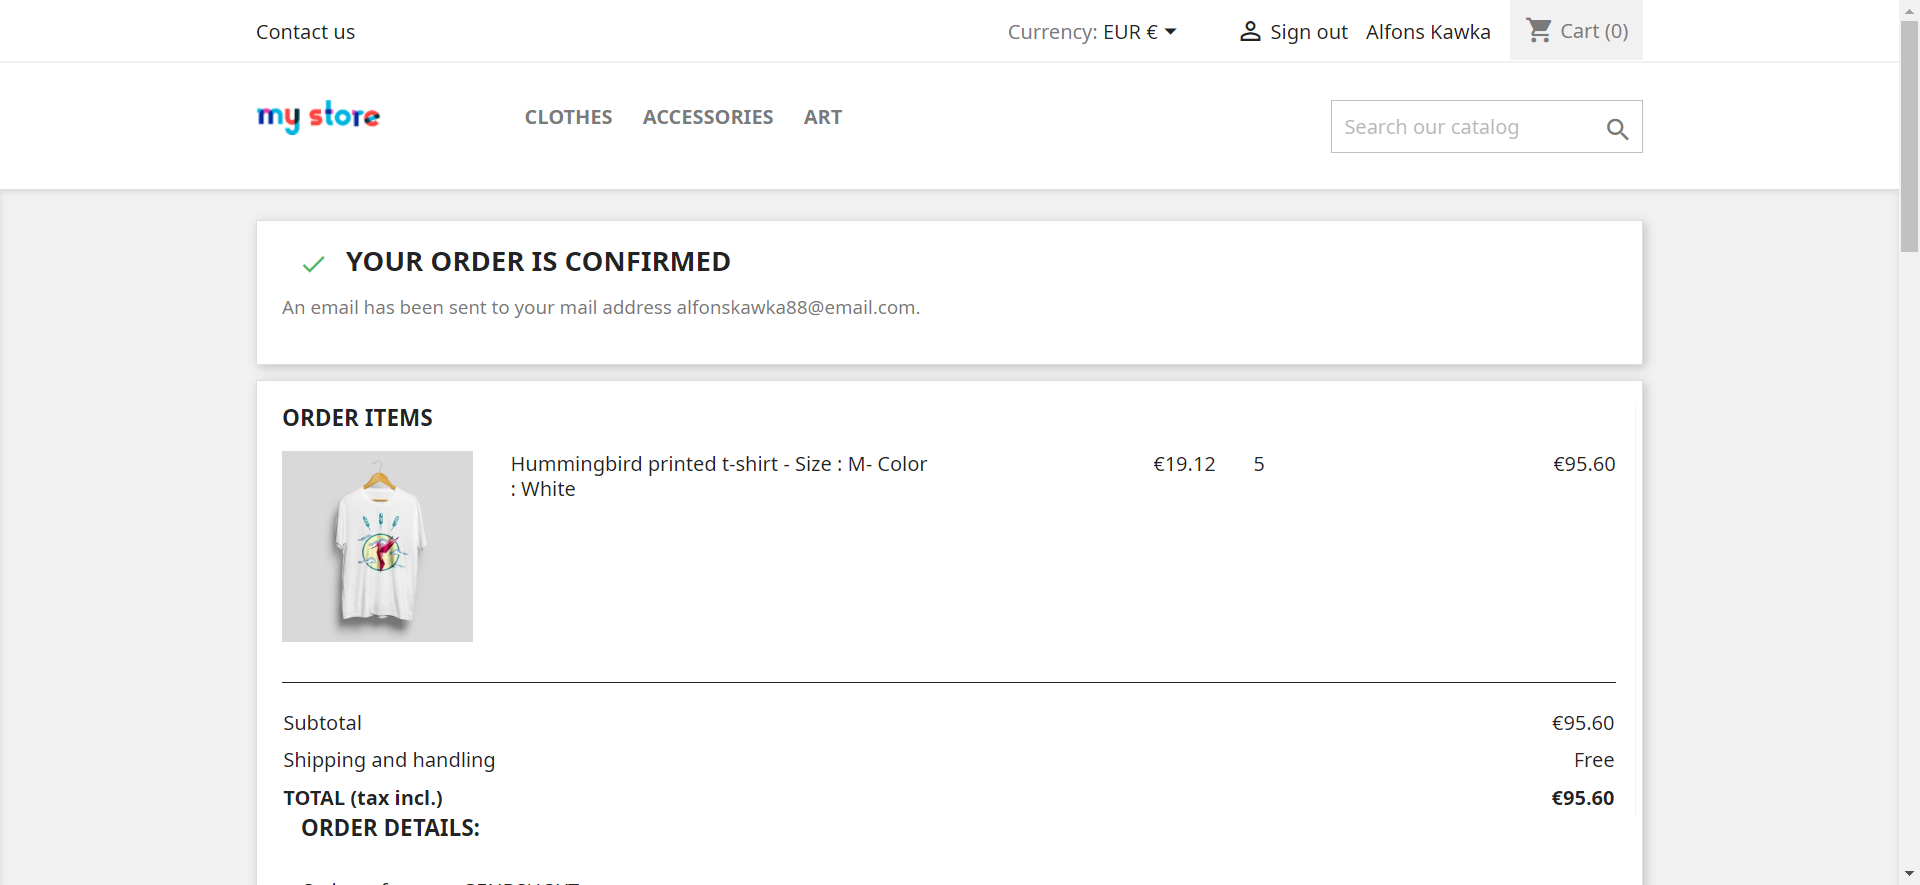
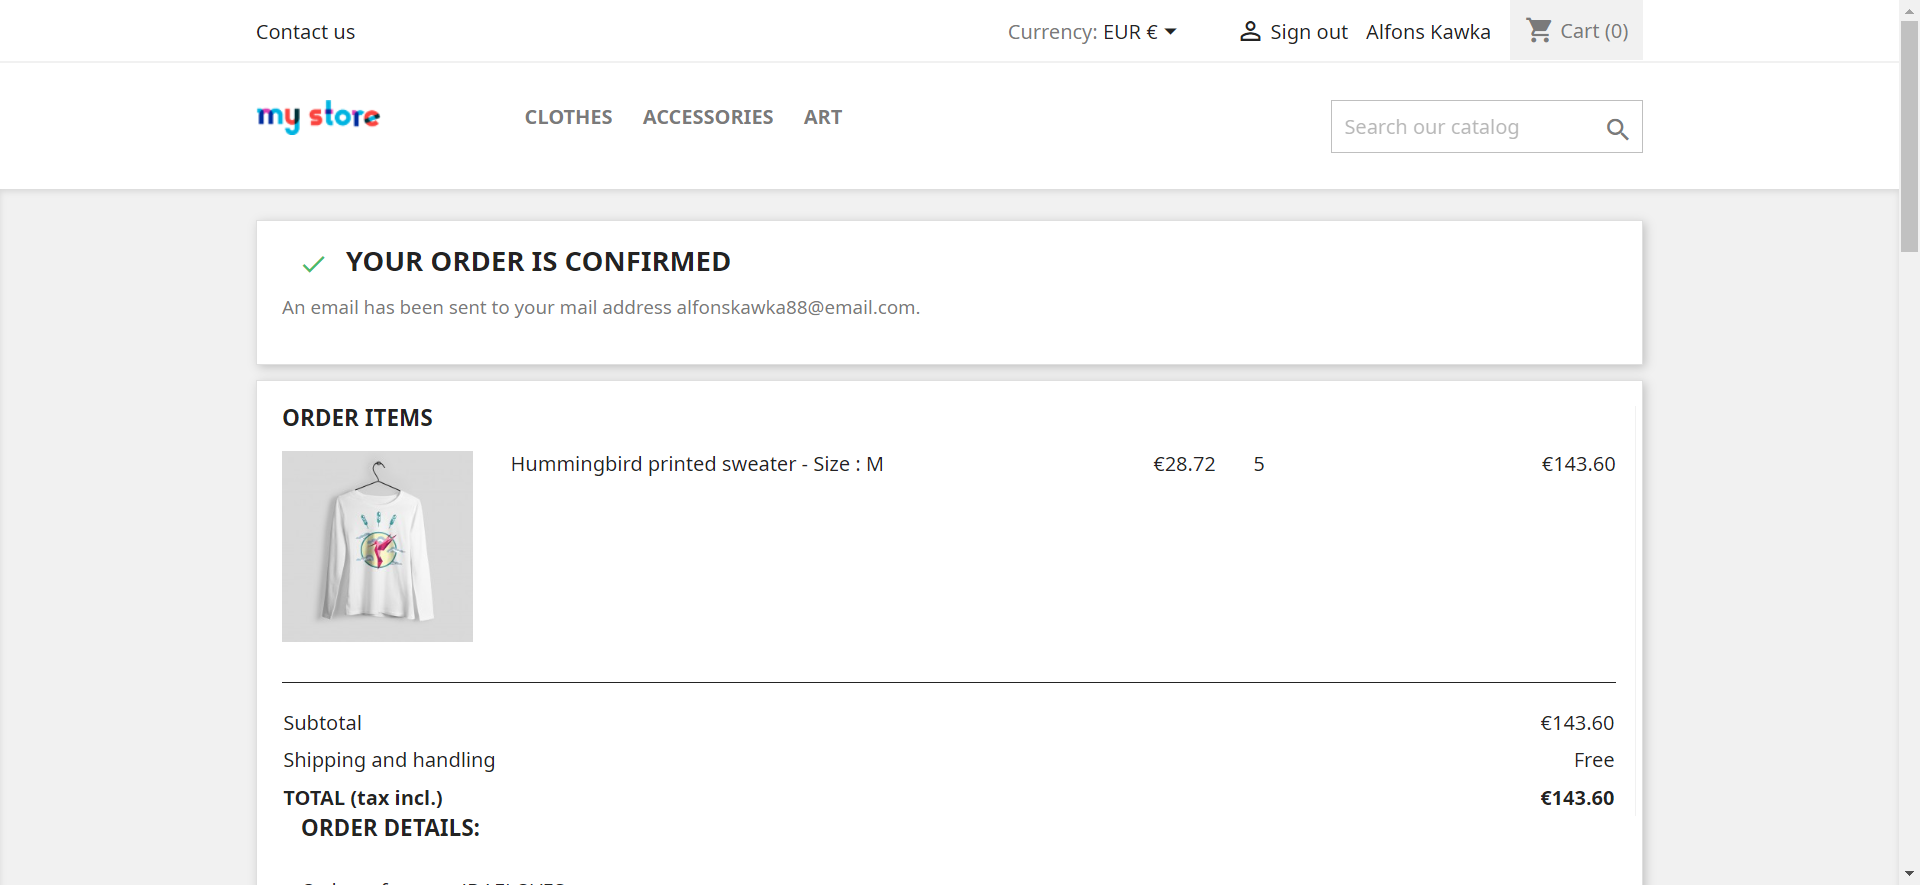
Zadania done

diff --git a/src/test/java/bdd/zadania/Zadanie1Steps.java b/src/test/java/bdd/zadania/Zadanie1Steps.java
@@ -12,6 +12,8 @@ import org.openqa.selenium.WebDriver;
 import org.openqa.selenium.WebElement;
 import org.openqa.selenium.chrome.ChromeDriver;
 
+import java.util.List;
+
 
 public class Zadanie1Steps {
 
@@ -59,24 +61,37 @@ public class Zadanie1Steps {
         createNewAddressPage.createAddress();
     }
 
-    @Then("new address is added")
-    public void newAddressIsAdded() {
+    @Then("new address is added and deleted")
+    public void newAddressIsAddedAndDeleted() {
         WebElement newAddressIsAdded = driver.findElement(By.xpath("//*[@id=\"notifications\"]/div/article/ul/li"));
         System.out.println(newAddressIsAdded.getText());
         Assertions.assertEquals(newAddressIsAdded.getText(), "Address successfully added!");
 
-        WebElement firstAlias = driver.findElement(By.cssSelector("#address-24480 > div.address-body > h4"));
-        System.out.println(firstAlias.getText());
-        Assertions.assertEquals(firstAlias.getText(), "alfons2");
+        List<WebElement> webElementList = driver.findElements(By.cssSelector("article[id^='address-']")); //napisane na podstawie Attribute Starts with
+        webElementList.forEach((tile) -> {
 
-       /* WebElement firstNameInput = driver.findElement(By.xpath("//*[@id=\"address-24256\"]/div[1]/address/text(Alfons Kawka)[1]"));
-        System.out.println(firstNameInput.getText());
-        Assertions.assertEquals(firstNameInput.getText(), "Alfons Kawka");*/
+            if (tile.findElement(By.cssSelector("div.address-body > h4")).getText().equals("alfons2")){
 
-        //driver.find_elements_by_xpath('//div[contains(text(), "' + text + '")]')
+                if(tile.findElement(By.cssSelector("div.address-body > address")).getText().contains(""" 
+                        Alfons Kawka
+                        Downing Street
+                        London
+                        EC4Y 9AY
+                        United Kingdom
+                        729888555""")){
+                    tile.findElement(By.cssSelector("div.address-footer > a:nth-child(2) > span")).click();
+                }
 
+
+            }
+
+        });
+        Assertions.assertEquals(driver.findElement(By.cssSelector("#notifications > div > article > ul > li")).getText(), "Address successfully deleted!");
     }
+
 }
+
+// potrojny cudzyslow porownoje stringi wraz ze znakami konca linii, chyba od javy 11 tak można robić
 
 
 

diff --git a/src/test/java/PageObjectPattern/zadanie2Warsztatowe/Zadanie2Test.java b/src/test/java/PageObjectPattern/zadanie2Warsztatowe/Zadanie2Test.java
@@ -1,7 +1,7 @@
 package PageObjectPattern.zadanie2Warsztatowe;
 
 import PageObjectPattern.myStorePage.AuthenticationPage;
-import PageObjectPattern.myStorePage.CheckHummingbirdTshirtSize;
+import PageObjectPattern.myStorePage.CheckHummingbirdSweaterSize;
 import org.junit.jupiter.api.Assertions;
 import org.junit.jupiter.api.Test;
 import org.openqa.selenium.*;
@@ -33,15 +33,15 @@ public class Zadanie2Test {
         WebElement clothesButton = driver.findElement(By.xpath("//*[@id=\"category-3\"]/a"));
         clothesButton.click();
 
-        WebElement hummingbirdPrintedSweater = driver.findElement(By.xpath("//*[@id=\"js-product-list\"]/div[1]/article[1]/div/a/img"));
+        WebElement hummingbirdPrintedSweater = driver.findElement(By.xpath("//*[@id=\"js-product-list\"]/div[1]/article[2]/div/a/img"));
         hummingbirdPrintedSweater.click();
 
         WebElement specialOffer = driver.findElement(By.xpath("//*[@id=\"main\"]/div[1]/div[2]/div[1]/div[2]/div/span[2]"));
         System.out.println(specialOffer.getText());
         Assertions.assertEquals(specialOffer.getText(), "SAVE 20%");
 
-        CheckHummingbirdTshirtSize checkHummingbirdTshirtSize = new CheckHummingbirdTshirtSize(driver);
-        checkHummingbirdTshirtSize.sizeM("M");
+        CheckHummingbirdSweaterSize checkHummingbirdSweaterSize = new CheckHummingbirdSweaterSize(driver);
+        checkHummingbirdSweaterSize.sizeM("M");
 
         driver.findElement(By.cssSelector(".touchspin-up")).click();
         driver.findElement(By.cssSelector(".touchspin-up")).click();

diff --git a/src/test/java/PageObjectPattern/myStorePage/CheckHummingbirdSweaterSize.java b/src/test/java/PageObjectPattern/myStorePage/CheckHummingbirdSweaterSize.java
@@ -6,7 +6,7 @@ import org.openqa.selenium.WebElement;
 import org.openqa.selenium.support.FindBy;
 import org.openqa.selenium.support.PageFactory;
 
-public class CheckHummingbirdTshirtSize {
+public class CheckHummingbirdSweaterSize {
 
     private WebDriver driver;
 
@@ -14,7 +14,7 @@ public class CheckHummingbirdTshirtSize {
     @FindBy(id = "group_1")
     private WebElement checkSizeM;
 
-    public CheckHummingbirdTshirtSize(WebDriver driver) {
+    public CheckHummingbirdSweaterSize(WebDriver driver) {
         this.driver = driver;
         PageFactory.initElements(driver, this);
 
